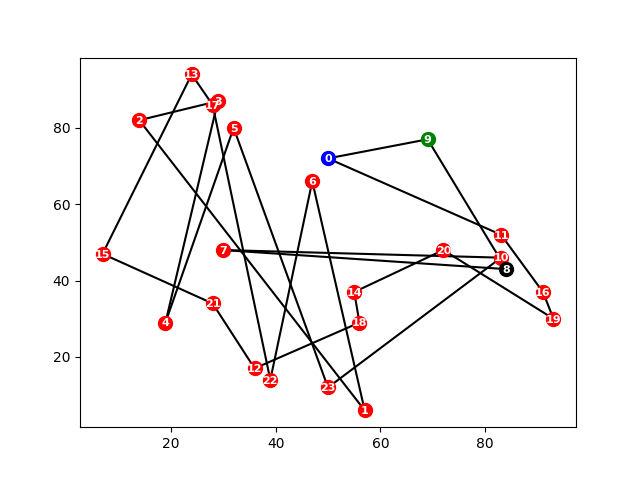
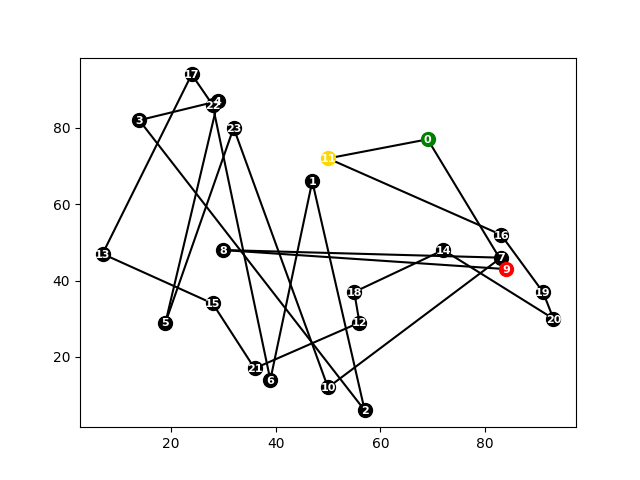
fix: labels graph

diff --git a/utils/graph.py b/utils/graph.py
@@ -15,22 +15,25 @@ def generate_graph(json_data, name):
     first_id = ''
     
     for route in data['routes']:
-        color = 'red' 
+        color = 'black' 
+
         
         if route['id'] == '0': 
             color = 'green'
             first_id = route['targetId']
-        
+
         if route['id'] == first_id: 
-            color = 'blue'
+            color = 'gold'
 
         if route['targetId'] == '0': 
-            color = 'black'
+            color = 'red'
 
         scatter(route['x'], route['y'], color=color, marker='o', s=100)
 
     for route in data['routes']:
-        x_end, y_end = pontos[route['targetId']]['x'], pontos[route['targetId']]['y']
-        text(x_end, y_end - 0.2, route['label'], ha='center', va='center', color="white", fontsize=8, fontweight='bold')
+        color = 'white'
+
+        x_end, y_end = pontos[route['id']]['x'], pontos[route['id']]['y']
+        text(x_end, y_end - 0.2, route['label'], ha='center', va='center', color=color, fontsize=8, fontweight='bold')
 
     savefig(f'./public/images/{name}')

diff --git a/model/response.py b/model/response.py
@@ -15,7 +15,7 @@ def generate_response(name, n, x, coordenadas, final_time, initial_time, great_v
 
 def get_routes(n, x, coordenadas): 
     routes = []
-    expand = 3
+    expand = 1
 
     for i in range(n-1):
         for j in range(1, n):
